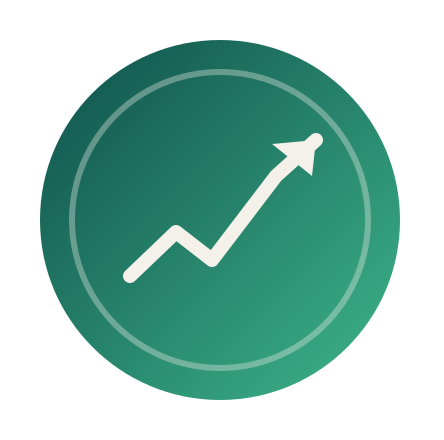
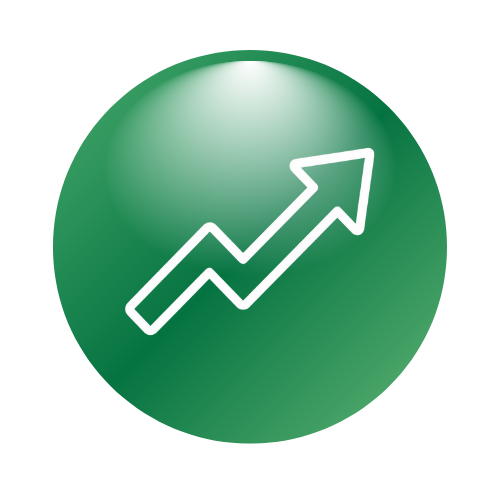
Resumen
Corregí el error de 404 al guardar configuraciones, le cambié el logo, y puse nuestros usuarios

diff --git a/public/css/styles.css b/public/css/styles.css
@@ -50,8 +50,8 @@ body {
 }
 
 .icon-small {
-    width: 45px;
-    height: 45px;
+    width: 52px;
+    height: 52px;
     object-fit: contain;
     margin: 0;
     margin-left: 15px;
@@ -776,8 +776,9 @@ body {
 }
 
 .auth-header .logo {
-    width: 450px;
-    height: 150px;
+    width: 520px;
+    max-width: 100%;
+    height: auto;
     object-fit: contain;
     margin-bottom: 5px;
 }

diff --git a/app/views/configuracion.php b/app/views/configuracion.php
@@ -24,7 +24,7 @@ if (!isset($_SESSION['usuario'])) {
 
     <header class="topbar">
         <div class="marca">  
-            <img src="../../public/img/icon.png" alt="Icono de Smartbudget"  class="icon-small">
+            <img src="../../public/img/icon.png" alt="Icono de Smartbudget" class="icon-small">
             <span>SmartBudget</span>
         </div>
 
@@ -50,24 +50,33 @@ if (!isset($_SESSION['usuario'])) {
         <h1>Configuración</h1>
 
         <section class="tarjeta-formulario">
-            <h2>Notificaciones por correo</h2>
+            <h2>Notificaciones</h2>
 
-            <!-- El "action" apunta al futuro controlador PHP de configuración -->
-            <form id="form-notificaciones" method="POST" action="controllers/ConfigurationController.php">
+            <form id="form-notificaciones" method="POST" action="../controllers/ConfigurationController.php">
+                <input type="hidden" name="guardar_configuracion" value="1">
 
                 <div class="campo campo-switch">
-                    <label for="notif-reporte">Reporte financiero mensual</label>
-                    <input type="checkbox" id="notif-reporte" name="notif_reporte">
+                    <label for="reporte-app">Reporte financiero mensual</label>
+                    <div>
+                        <label><input type="checkbox" id="reporte-app" name="reporte_app" value="1" checked> App</label>
+                        <label><input type="checkbox" id="reporte-correo" name="reporte_correo" value="1" checked> Correo</label>
+                    </div>
                 </div>
 
                 <div class="campo campo-switch">
-                    <label for="notif-pagos">Alertas de próximos pagos</label>
-                    <input type="checkbox" id="notif-pagos" name="notif_pagos">
+                    <label for="pagos-app">Alertas de próximos pagos</label>
+                    <div>
+                        <label><input type="checkbox" id="pagos-app" name="pagos_app" value="1" checked> App</label>
+                        <label><input type="checkbox" id="pagos-correo" name="pagos_correo" value="1" checked> Correo</label>
+                    </div>
                 </div>
 
                 <div class="campo campo-switch">
-                    <label for="notif-exceso">Aviso al sobrepasar el monto máximo de una categoría</label>
-                    <input type="checkbox" id="notif-exceso" name="notif_exceso">
+                    <label for="exceso-app">Aviso al sobrepasar el monto máximo de una categoría</label>
+                    <div>
+                        <label><input type="checkbox" id="exceso-app" name="exceso_app" value="1" checked> App</label>
+                        <label><input type="checkbox" id="exceso-correo" name="exceso_correo" value="1" checked> Correo</label>
+                    </div>
                 </div>
 
                 <button type="submit" class="btn-primario">Guardar cambios</button>
@@ -77,16 +86,17 @@ if (!isset($_SESSION['usuario'])) {
         <section class="tarjeta-formulario">
             <h2>Datos de la cuenta</h2>
 
-            <form id="form-perfil" method="POST" action="controllers/ConfigurationController.php">
+            <form id="form-perfil" method="POST" action="../controllers/ConfigurationController.php">
+                <input type="hidden" name="guardar_perfil" value="1">
 
                 <div class="campo">
                     <label for="nombre-perfil">Nombre completo</label>
-                    <input type="text" id="nombre-perfil" name="nombre">
+                    <input type="text" id="nombre-perfil" name="nombre" value="<?php echo htmlspecialchars($_SESSION['usuario']['nombre'] ?? ''); ?>">
                 </div>
 
                 <div class="campo">
                     <label for="email-perfil">Correo electrónico</label>
-                    <input type="email" id="email-perfil" name="email">
+                    <input type="email" id="email-perfil" name="email" value="<?php echo htmlspecialchars($_SESSION['usuario']['email'] ?? ''); ?>">
                 </div>
 
                 <button type="submit" class="btn-secundario">Actualizar datos</button>

diff --git a/app/controllers/ConfigurationController.php b/app/controllers/ConfigurationController.php
@@ -9,6 +9,42 @@ if (!isset($_SESSION['usuario'])) {
     exit();
 }
 
+$id_usuario = (int) $_SESSION['usuario']['id_usuario'];
+
+if (isset($_POST['guardar_perfil'])) {
+    $nombre = trim($_POST['nombre'] ?? '');
+    $email = trim($_POST['email'] ?? '');
+
+    if ($nombre !== '' && $email !== '') {
+        Usuario::actualizarPerfil($id_usuario, $nombre, $email);
+        $_SESSION['usuario']['nombre'] = $nombre;
+        $_SESSION['usuario']['email'] = $email;
+    }
+
+    header("Location: ../views/configuracion.php");
+    exit();
+}
+
+if (isset($_POST['guardar_configuracion'])) {
+    $tipos = [
+        'reporte' => 4,
+        'pagos' => 1,
+        'exceso' => 3
+    ];
+
+    foreach ($tipos as $clave => $id_tipo) {
+        $appKey = $clave . '_app';
+        $correoKey = $clave . '_correo';
+        $notificacion_app = isset($_POST[$appKey]) ? 1 : 0;
+        $notificacion_correo = isset($_POST[$correoKey]) ? 1 : 0;
+
+        ConfiguracionNotificaciones::guardarOActualizar($id_usuario, $id_tipo, $notificacion_app, $notificacion_correo, 2);
+    }
+
+    header("Location: ../views/configuracion.php");
+    exit();
+}
+
 // ELIMINAR
 if (isset($_GET['delete'])) {
 

diff --git a/app/models/ConfiguracionNotificaciones.php b/app/models/ConfiguracionNotificaciones.php
@@ -86,4 +86,18 @@ class ConfiguracionNotificaciones {
 
         return $stmt->execute();
     }
+
+    public static function guardarOActualizar($id_usuario, $id_tipo, $notificacion_app, $notificacion_correo, $id_estado = 2) {
+        $db = Database::conectar();
+        $sql = "INSERT INTO configuraciones_notificaciones(id_usuario, id_tipo, notificacion_app, notificacion_correo, id_estado)
+                VALUES (?, ?, ?, ?, ?)
+                ON DUPLICATE KEY UPDATE
+                    notificacion_app = VALUES(notificacion_app),
+                    notificacion_correo = VALUES(notificacion_correo),
+                    id_estado = VALUES(id_estado)";
+        $stmt = $db->prepare($sql);
+        $stmt->bind_param("iiiii", $id_usuario, $id_tipo, $notificacion_app, $notificacion_correo, $id_estado);
+
+        return $stmt->execute();
+    }
 }

diff --git a/app/views/registro.php b/app/views/registro.php
@@ -28,11 +28,6 @@
             <form id="form-registro" method="POST" action="../controllers/AuthController.php" novalidate>
 
                 <div class="campo">
-                    <label for="usuario">Nombre de usuario</label>
-                    <input type="text" id="usuario" name="usuario" placeholder="Nombre de usuario único" required>
-                </div>
-
-                <div class="campo">
                     <label for="nombre">Nombre</label>
                     <input type="text" id="nombre" name="nombre" placeholder="Primer nombre" required>
                 </div>

diff --git a/app/models/Usuario.php b/app/models/Usuario.php
@@ -74,4 +74,14 @@ class Usuario {
 
         return $stmt->execute();
     }
+
+    public static function actualizarPerfil($id_usuario, $nombre, $email) {
+        $db = Database::conectar();
+
+        $sql = "UPDATE usuarios SET nombre = ?, email = ? WHERE id_usuario = ?";
+        $stmt = $db->prepare($sql);
+        $stmt->bind_param("ssi", $nombre, $email, $id_usuario);
+
+        return $stmt->execute();
+    }
 }
